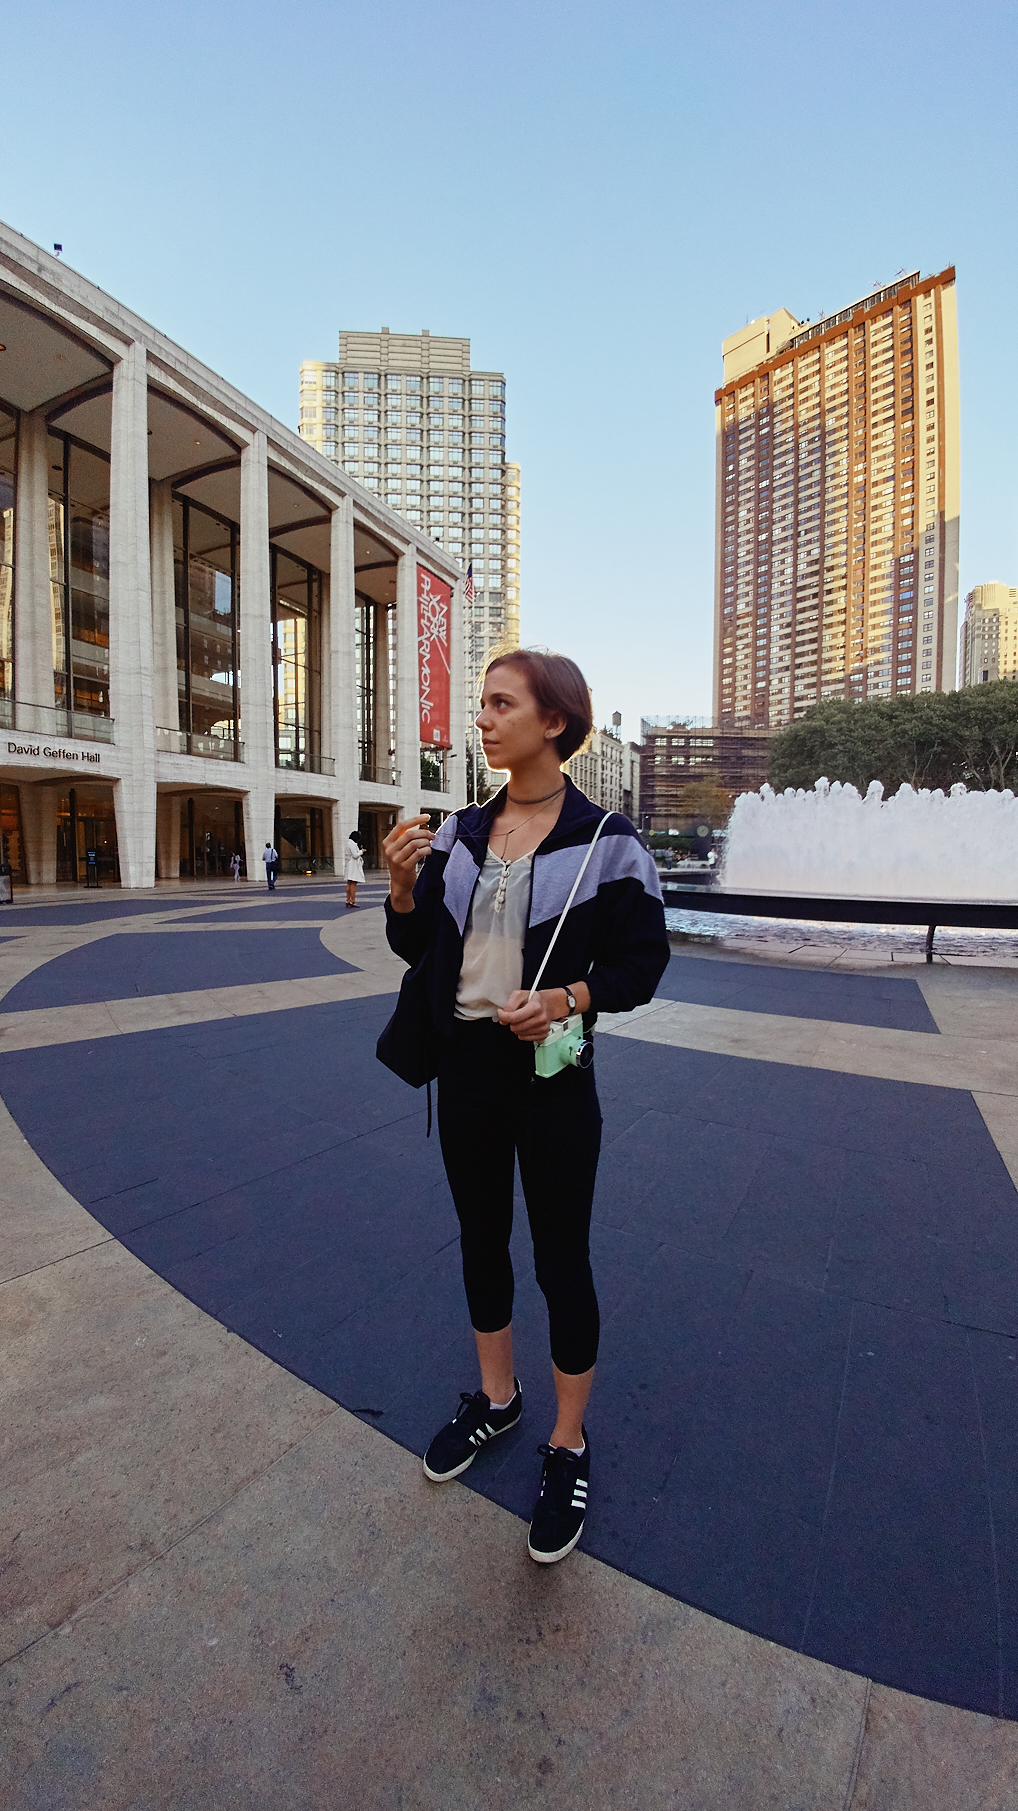
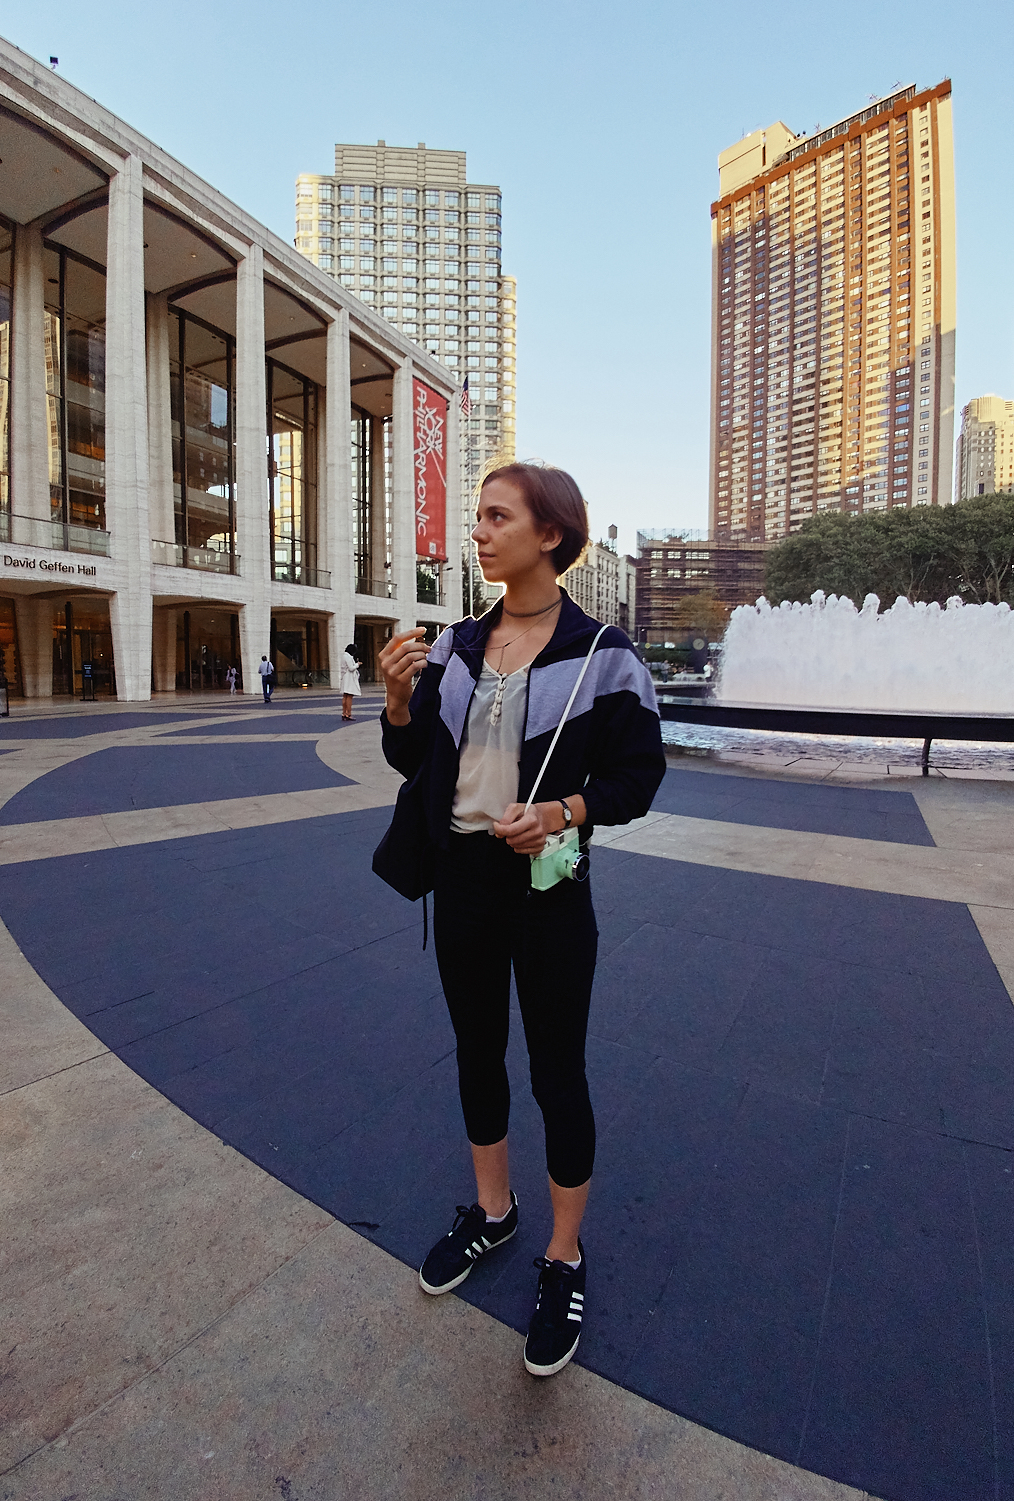
contact

diff --git a/pages/contact.js b/pages/contact.js
@@ -1,6 +1,7 @@
 import Head from 'next/head'
 import Header from '../components/header'
 import Footer from '../components/footer'
+import Image from 'next/image'
 import {VscGithubInverted, VscGithub} from 'react-icons/vsc'
 import {GrInstagram, GrLinkedin} from 'react-icons/gr'
 import {MdEmail} from 'react-icons/md'
@@ -37,11 +38,14 @@ export default function Contact() {
       </Head>
       <Header />
       <main className="flex flex-col items-center w-full flex-1 px-20 text-center ">
-       <ul>
-        <li><a href="mailto:lizlukasiewicz@gmail.com"> <MdEmail /> </a> lizlukasiewicz@gmail.com </li>
-        <li><a href="https://www.linkedin.com/in/elizabeth-lukasiewicz-a2904a59/" target="_blank"> <GrLinkedin/>  linkedin.com/in/elizabeth-lukasiewicz/ </a></li>
+      <div className="w-5/6 grid grid-cols-2 gap-1 space-y-6">
+      <Image src="/image2.jpg" alt="image of Elizabeth" width="1014" height="1501"  />
+       <ul className="flex flex-col justify-start space-x-4">
+        <li className="inline-flex space-x-4"><a href="mailto:lizlukasiewicz@gmail.com"> <MdEmail className="transform scale-150"/> </a><p>lizlukasiewicz@gmail.com </p></li>
+        <li className="inline-flex space-x-4"><a href="https://www.linkedin.com/in/elizabeth-lukasiewicz-a2904a59/" target="_blank"> <GrLinkedin className="transform scale-150"/></a><p>linkedin.com/in/elizabeth-lukasiewicz/</p></li>
            
-        </ul> 
+        </ul>
+        </div> 
       </main>
       <div className="fixed items-end self-start space-y-5 bottom-10 left-20">
         <ul className="flex-col space-y-8">

diff --git a/components/header.js b/components/header.js
@@ -12,9 +12,9 @@ export default function Header() {
                         </Link>
                     </div>
                     
-                    <div className="flex-shrink justify-end space-x-5">
+                    <div className="flex-shrink justify-end space-x-5 sm:space-x-0">
                         <Link href="/#about">
-                            <a className="whitespace-nowrap flex-shrink text-md font-medium transition duration-500 ease-in-out hover:text-blue ">    
+                            <a className="whitespace-nowrap flex-shrink text-md font-medium transition duration-500 ease-in-out hover:text-blue">    
                             About Me
                             </a>
                         </Link>
